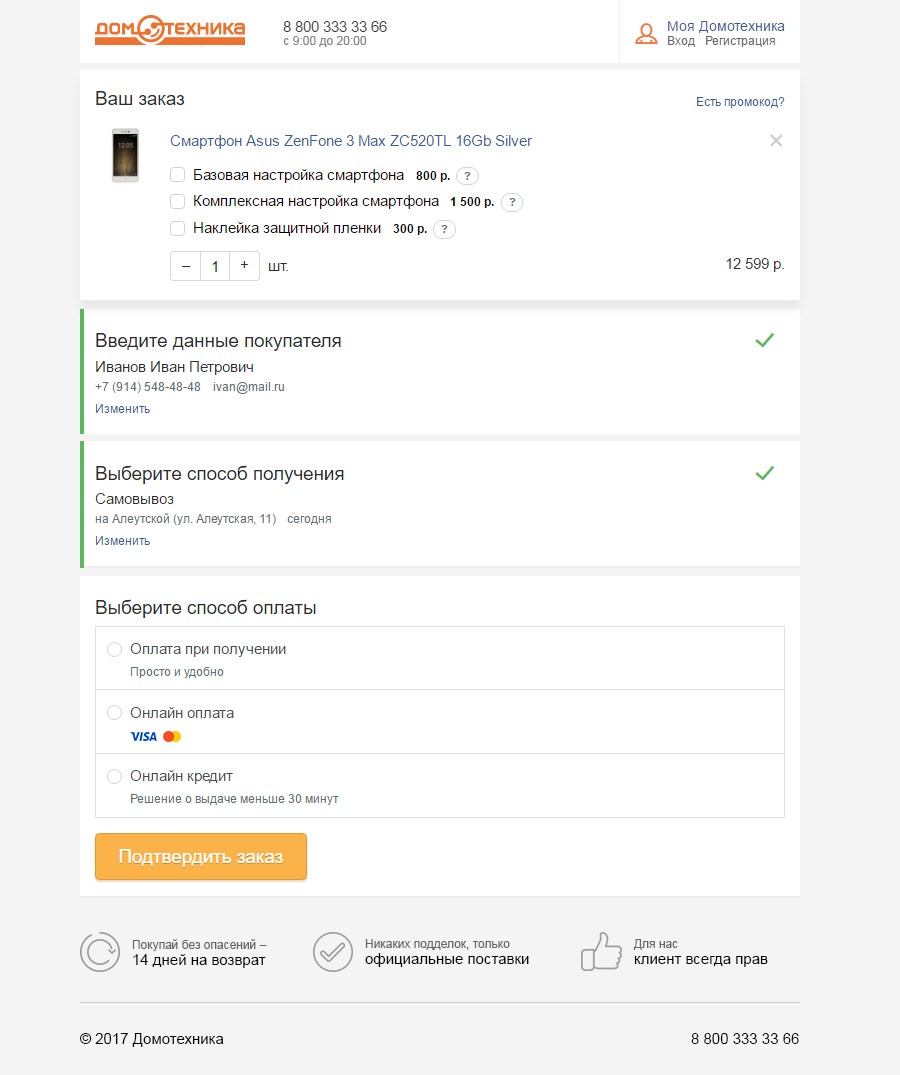
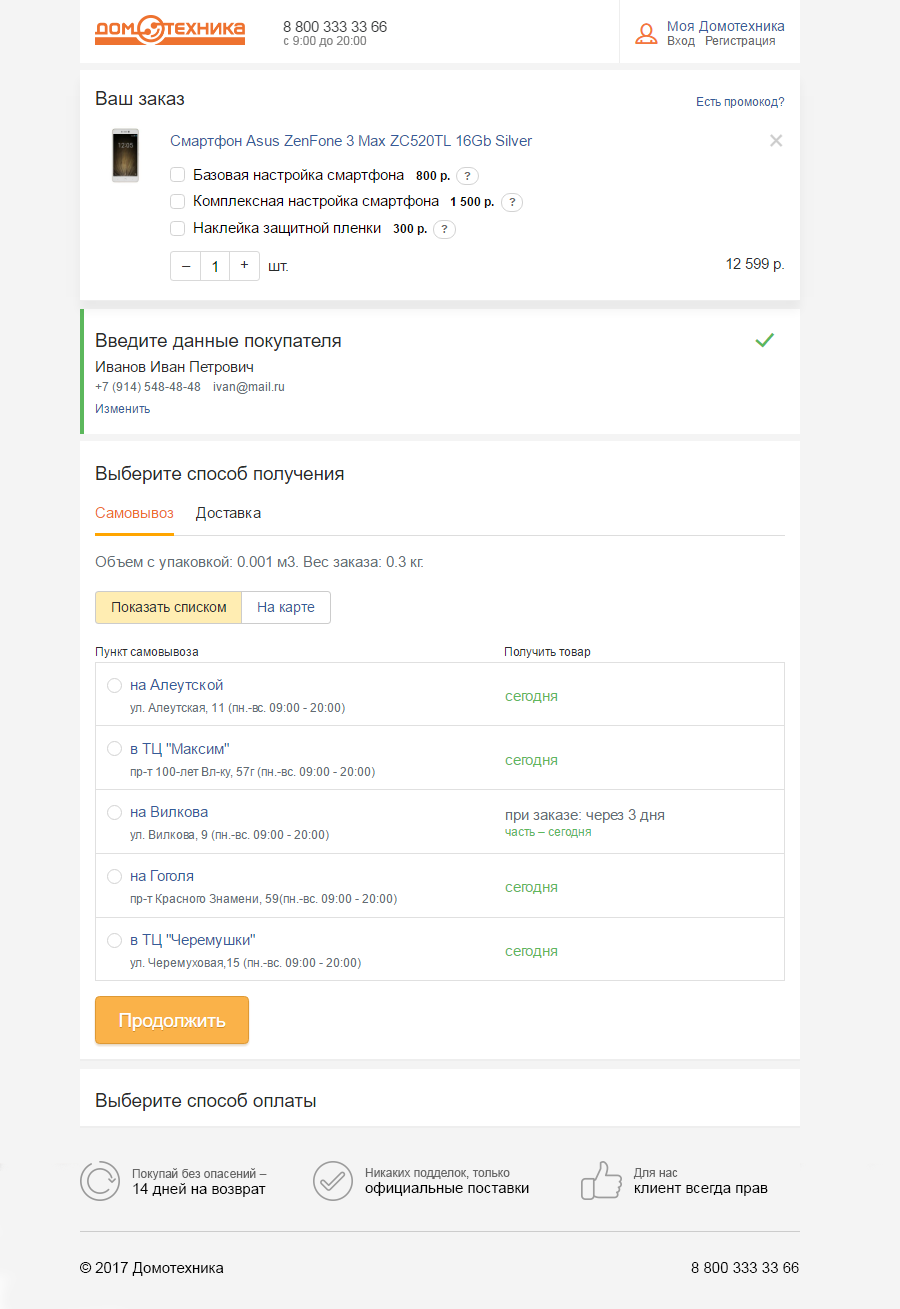
1

diff --git a/pages/cart/steps/Readme.md b/pages/cart/steps/Readme.md
@@ -1,12 +1,21 @@
 ## Пошаговый ввод
-Концепция подразумевает пошаговвый ввод требуемой информации, для подтверждения введенных данных требуется нажать на кнопку "продолжить".
-
-![Обычное состояние](../__source/cart___1step.png)
-![Обычное состояние](../__source/cart___2step.png)
-![Обычное состояние](../__source/cart___3step.png)
-![Обычное состояние](../__source/cart___success_step.png)
 
 ![Аккордеон](../__source/accordion.png)
+Концепция подразумевает пошаговвый ввод требуемой информации, для подтверждения введенных данных требуется нажать на кнопку "продолжить".
+
+
+#### Шаг ввода пользовательских данных
+![Обычное состояние](../__source/cart___1step.png)
+
+#### Шаг ввода данных о способе получения
+![Обычное состояние](../__source/cart___2step.png)
+
+#### Шаг ввода данных о способе оплаты
+![Обычное состояние](../__source/cart___3step.png)
+
+#### Финальный экран
+![Обычное состояние](../__source/cart___success_step.png)
+
 
 ## Основные шаги
 * [Проверка содержимого заказа](order-list/) - работа с содержимым заказа
